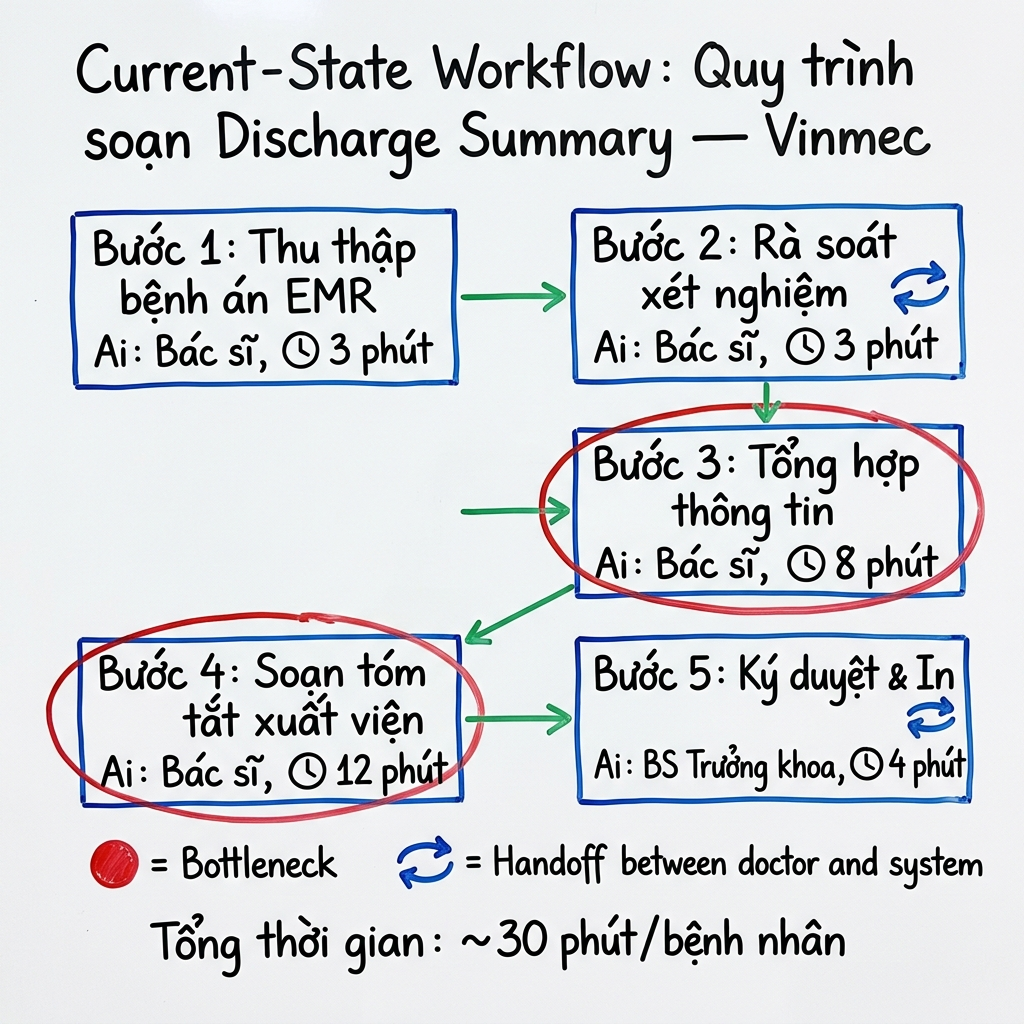
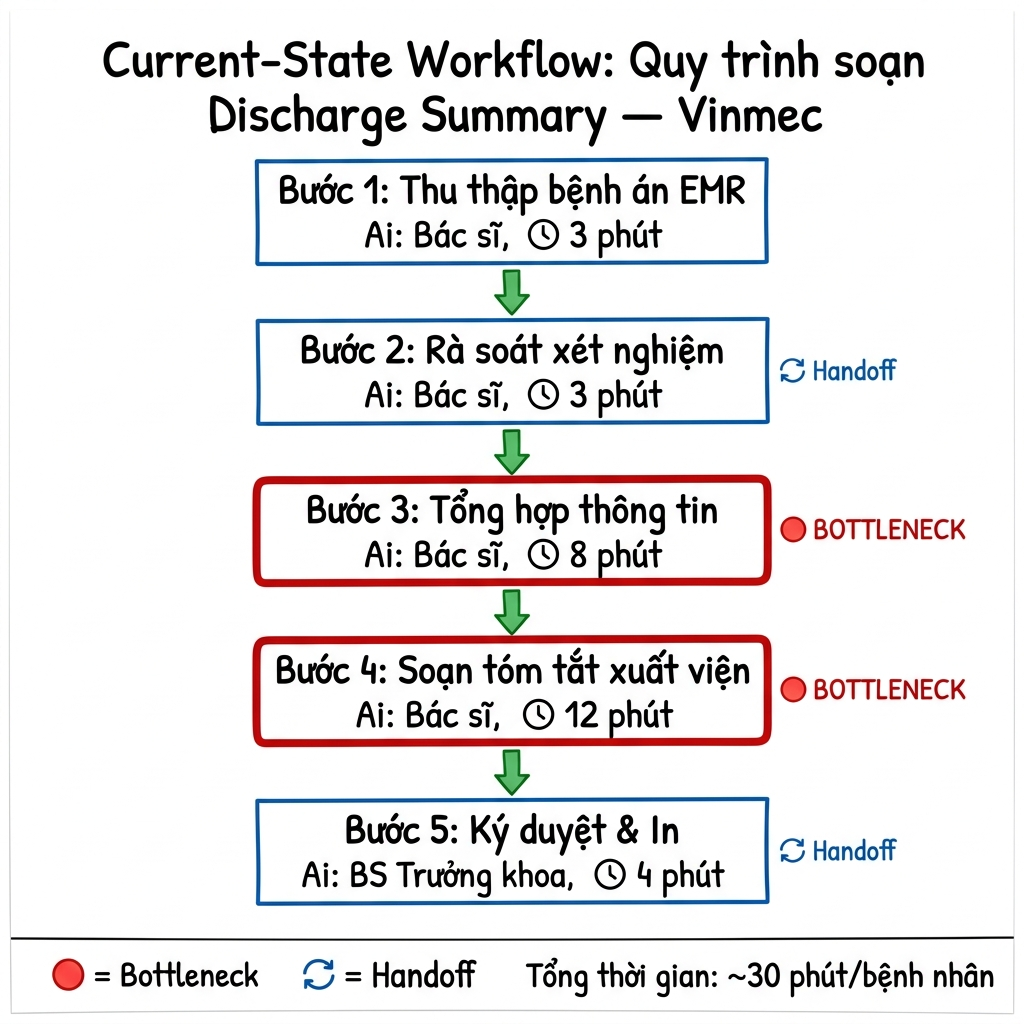
Submit Lab 02 Assignment

Changed region(s): [[0.0312, 0.0312, 0.9688, 0.9688]]

diff --git a/autograder/autograder.py b/autograder/autograder.py
@@ -422,7 +422,7 @@ def run_autograder():
         print("[WARNING] Co file bi thieu hoac kiem thu code khong dat. Vui loi kiem tra lai log.")
         sys.exit(1)
     else:
-        print("[SUCCESS] Tat ca cac check duoc chon deu thanh cong!")
+        print("[SUCCESS] Day du file nop bai. San sang push!")
         sys.exit(0)
 
 if __name__ == "__main__":

diff --git a/03-ai-log.md b/03-ai-log.md
@@ -5,6 +5,8 @@
 
 ---
 
+# Giáp Minh Hiếu
+
 ## 🤖 1. AI giúp gì? — Vai trò trợ lý đồng hành (Thought-Partner)
 
 Trong suốt buổi Lab, tôi đã sử dụng AI (Claude, Gemini) làm trợ lý đồng hành ở nhiều giai đoạn khác nhau:
@@ -79,3 +81,5 @@ Qua buổi Lab, tôi rút ra 3 bài học quan trọng khi làm việc với AI:
 2. **Ranh giới an toàn cần viết DỨT KHOÁT, không mơ hồ:** Thay vì viết *"không nên thay đổi"*, phải viết *"TUYỆT ĐỐI CẤM, KHÔNG BAO GIỜ"* kèm hành động cụ thể khi vi phạm. AI cần boundary rõ ràng, không ngầm hiểu.
 
 3. **Problem First, AI Second:** Luôn bắt đầu từ bài toán thực tế, sau đó mới tìm giải pháp AI phù hợp. Đừng để AI dẫn dắt bạn vào over-engineering chỉ vì nó biết nhiều công nghệ.
+
+

diff --git a/02-deep-dive-report.md b/02-deep-dive-report.md
@@ -12,6 +12,7 @@
 | 1 | *GIÁP MINH HIẾU* | *2A202600667* |
 | 2 | *NGUYỄN KHỞI LÂM* | *2A202600607* |
 | 3 | *NGUYỄN THÀNH VINH* | *2A202600971* |
+| 4 | *NGUYỄN ĐĂNG KHƯƠNG* | *2A202600584* |
 
 **Tên nhóm:** *Super awesome team*
 
